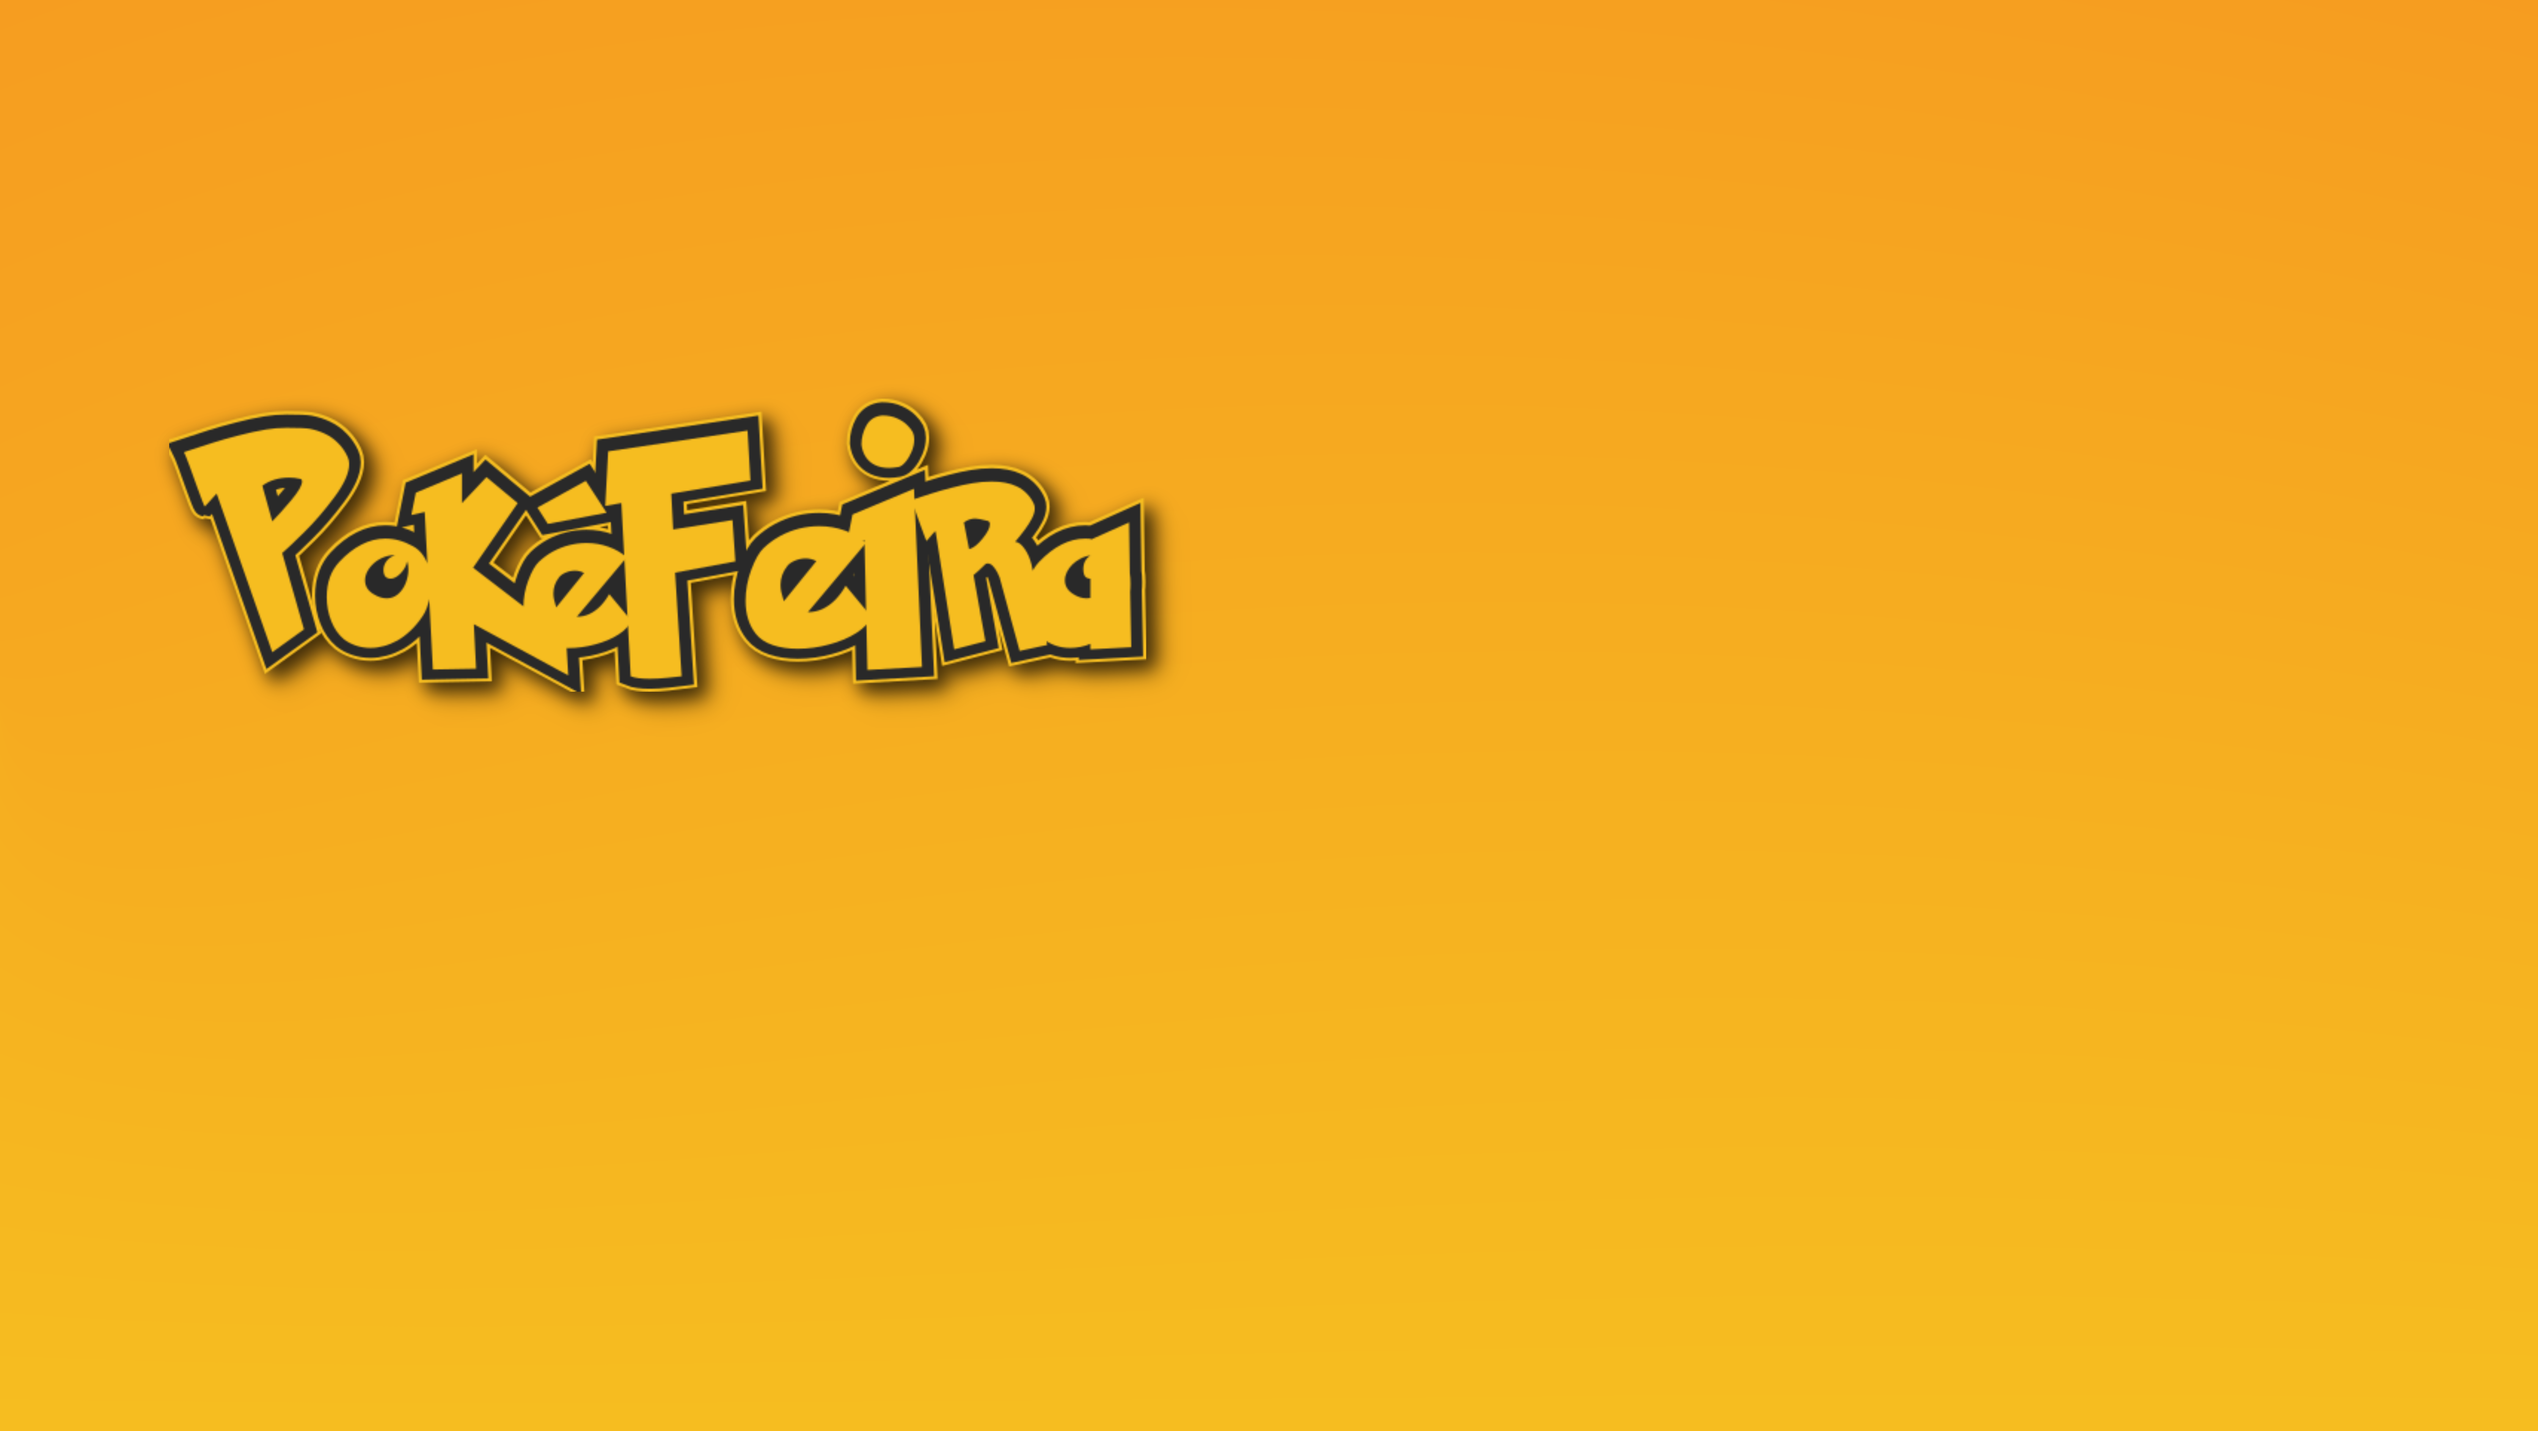
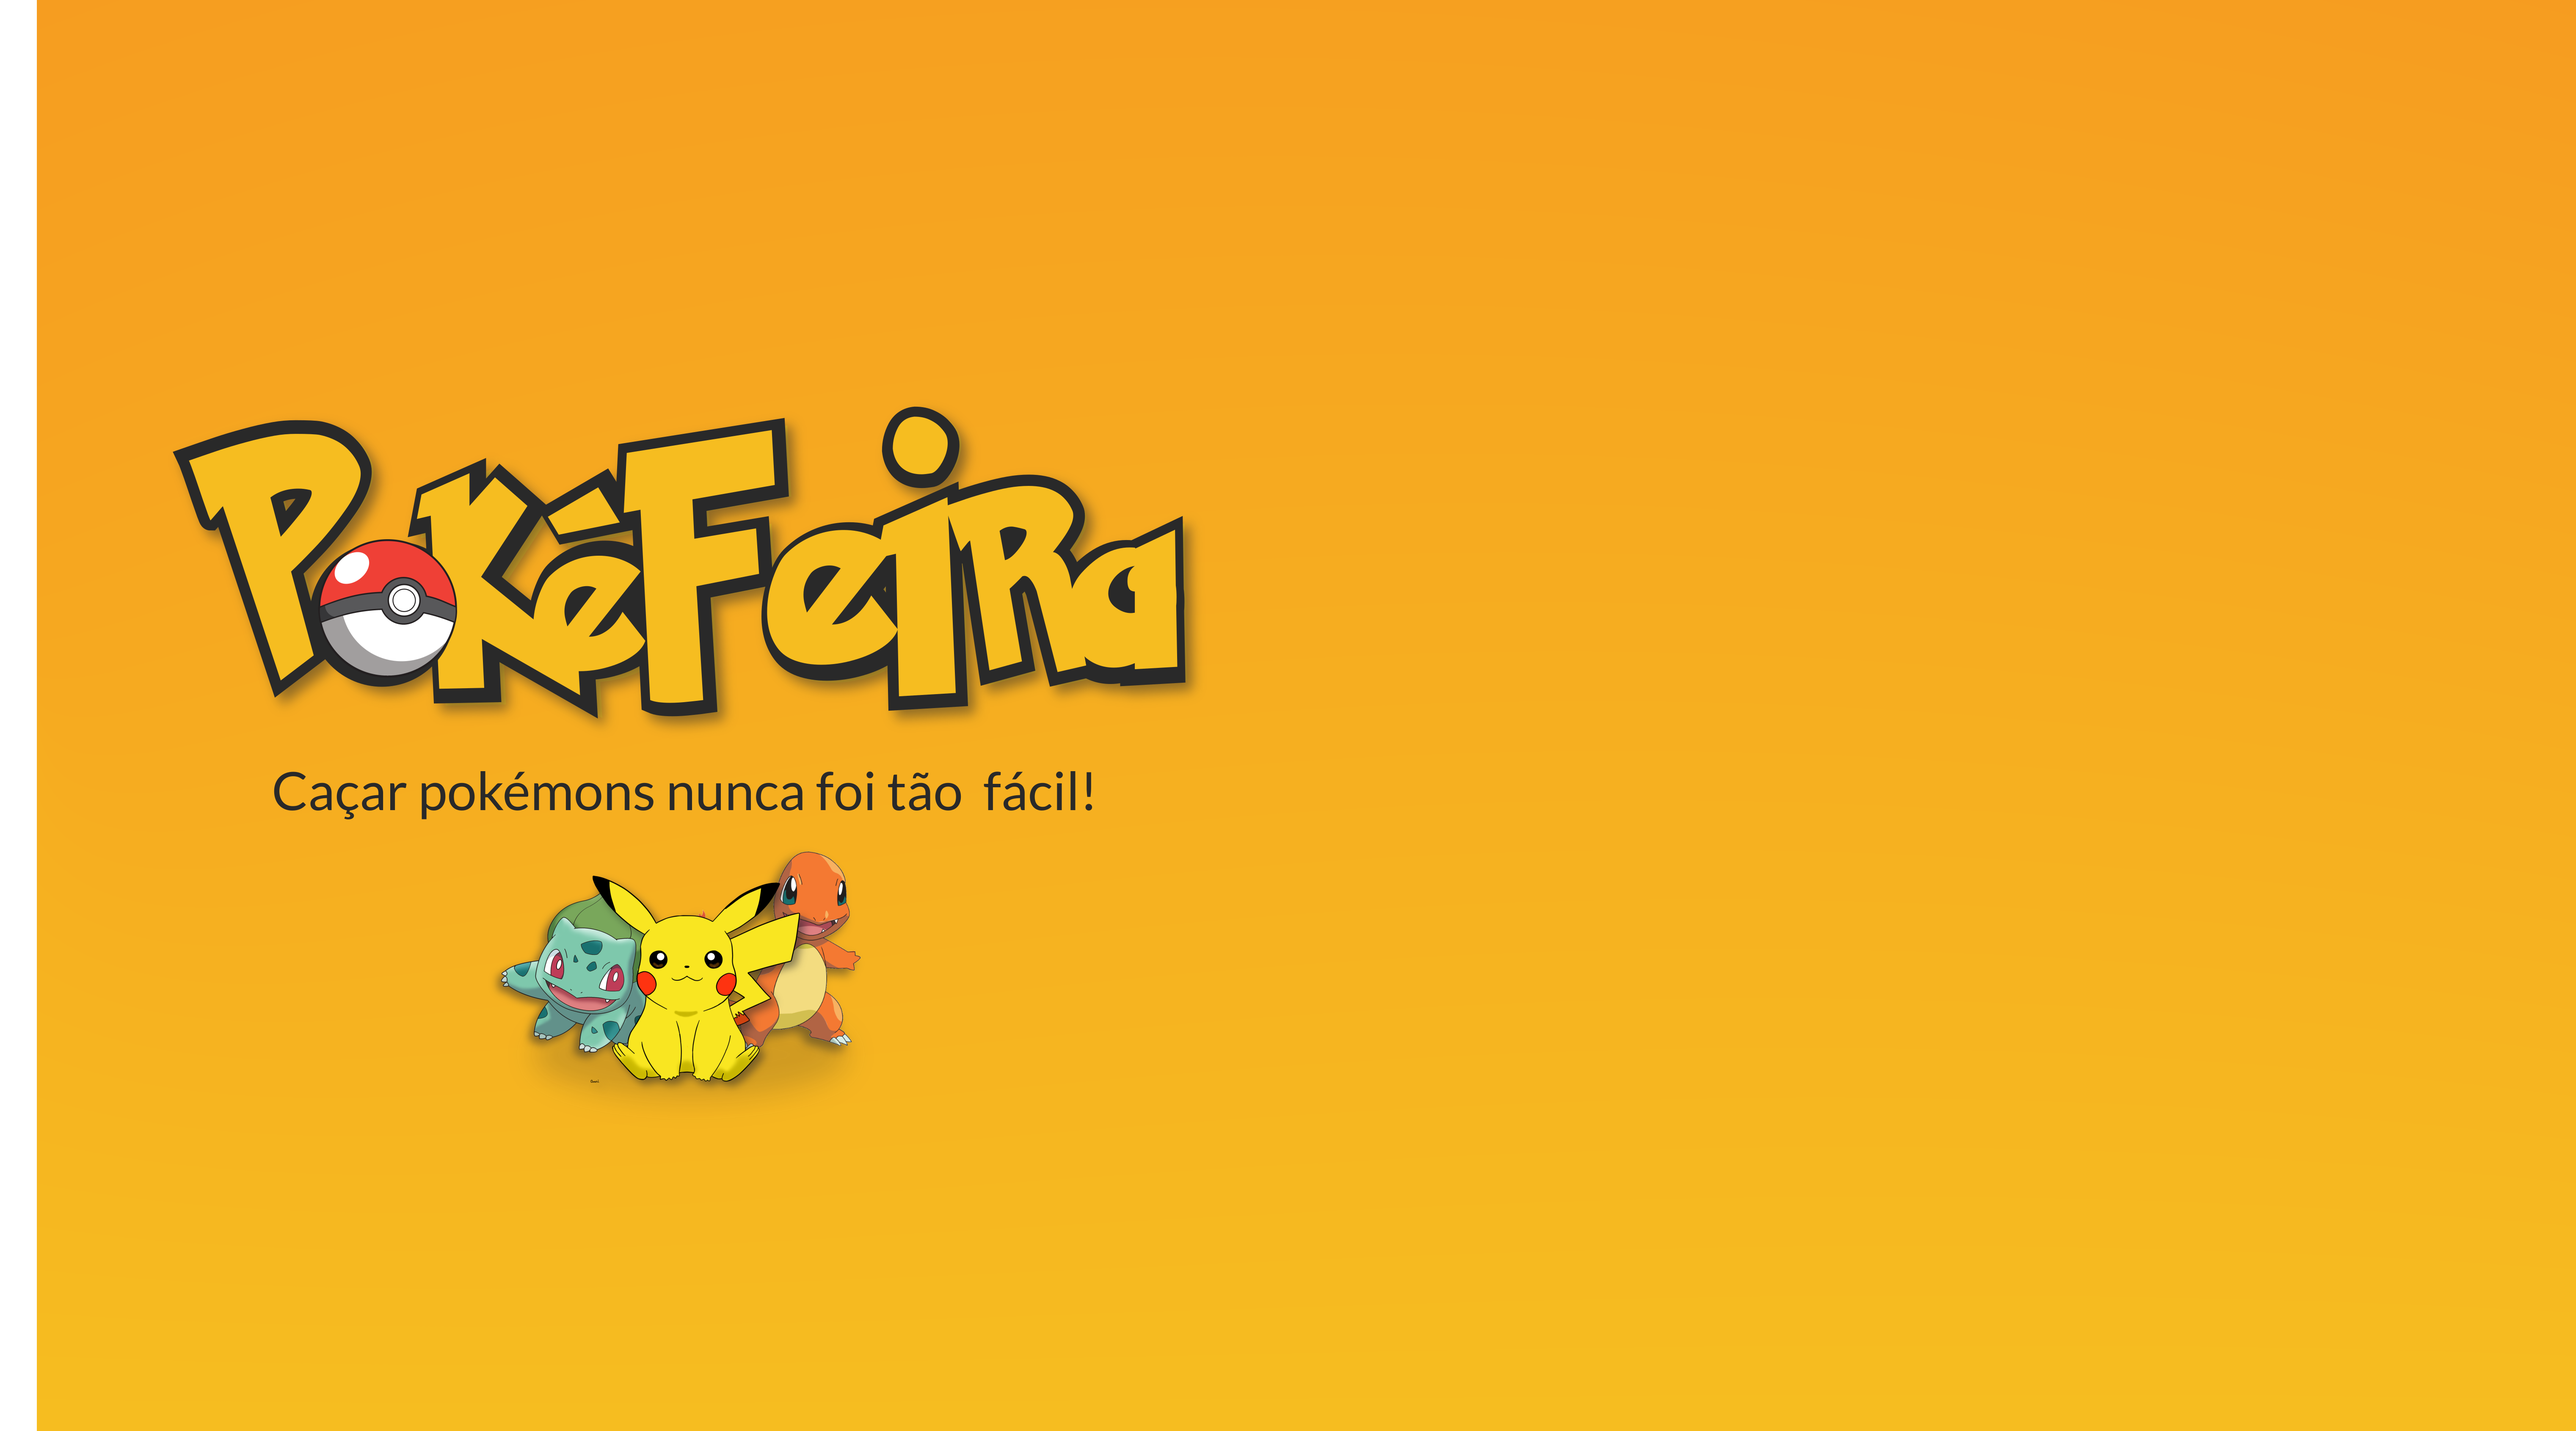
tela de login
tela de login 90%

Changed region(s): [[0.0624, 0.2795, 0.4677, 0.5901], [0.0, 0.0, 0.0312, 1.0], [0.1871, 0.5901, 0.3429, 0.7764]]

diff --git a/src/pages/Login/index.js b/src/pages/Login/index.js
@@ -4,7 +4,7 @@ import Container from '../../components/Container';
 import { useFormik } from 'formik';
 import { useAuth } from '../../hooks/context/AuthProvider';
 import { useHistory } from 'react-router-dom';
-import { Styled } from './styles';
+import { Styled, LoginButton} from './styles';
 import { validationSchema } from './validation';
 
 function Login() {
@@ -35,44 +35,42 @@ function Login() {
   );
 
   return (
-    <Container
-      title="Login"
-      size="sm"
-    >
-      <Form onSubmit={formik.handleSubmit}>
-        <Form.Group className="mb-5">
-          <Form.Label></Form.Label>
-          <Form.Control
-            id="login"
-            name="login"
-            placeholder="Digite seu e-mail"
-            onChange={formik.handleChange}
-            isValid={formik.touched.login && !formik.errors.login}
-            isInvalid={formik.errors.login}
-          />
-          {ValidationLoginError}
-        </Form.Group>
-        <Form.Group className="mb-5">
-          <Form.Label></Form.Label>
-          <Form.Control
-            id="password"
-            name="password"
-            type="password"
-            placeholder="Digite sua Senha"
-            onChange={formik.handleChange}
-            isValid={formik.touched.password && !formik.errors.password}
-            isInvalid={formik.errors.password}
-          />
-          {ValidationPasswordError}
-        </Form.Group>
-        {AppError}            
-         <ButtonGroup>
-           <Button variant="dark"  type="submit">Go!</Button>                                                            
-        </ButtonGroup>
-      
-        <Button variant="link">Quero ser um mestre pokémon</Button>
-      </Form> 
-    </Container>
+    <Styled.Container>
+      <Container
+        title="Login"
+        size="sm"
+      >
+        <Form onSubmit={formik.handleSubmit}>
+          <Form.Group>
+            <Form.Label></Form.Label>
+            <Form.Control
+              id="login"
+              name="login"
+              placeholder="Digite seu e-mail"
+              onChange={formik.handleChange}
+              isValid={formik.touched.login && !formik.errors.login}
+              isInvalid={formik.errors.login}
+            />
+            {ValidationLoginError}
+          </Form.Group>
+          <Form.Group>
+            <Form.Label></Form.Label>
+            <Form.Control
+              id="password"
+              name="password"
+              type="password"
+              placeholder="Digite sua Senha"
+              onChange={formik.handleChange}
+              isValid={formik.touched.password && !formik.errors.password}
+              isInvalid={formik.errors.password}
+            />
+            {ValidationPasswordError}
+          </Form.Group>
+          {AppError}
+          <LoginButton type="submit">Go!</LoginButton>
+        </Form>
+      </Container>
+    </Styled.Container>
   );
 }
 

diff --git a/src/pages/Login/styles.js b/src/pages/Login/styles.js
@@ -1,13 +1,39 @@
 import styled from "styled-components";
 import { mixins } from "../../styles/mixins";
+import bg from "../../assets/login-page.png"
+export const Styled = { 
 
-export const Styled = {
-    Error: styled.p`
+      Container: styled.div`
+      width: 110%;
+      height: 110%;      
+      background: url(${bg}) no-repeat;  
+      background-size: cover;      
+      display: flex;
+      align-self: center;      
+      justify-content: center;
+      flex-direction: column;
+
+`,
+
+  Error: styled.p`
         align-self: center;
         justify-self: center;
         color: ${mixins.colors.third};
         font-family: ${mixins.fonts.semi_bold};
         font-size: ${mixins.typograph.campoObrigatorio};
-    `,
+    `
+};
+export const LoginButton = styled.button`
   
-}
+          background-color:${mixins.colors.sixth};
+          text-align: center;
+          text-decoration:${mixins.colors.third};
+          font-size:18px;                    
+          width: 100%;
+          height: 35px;
+          border-radius:10px;  
+          border:none;
+          font-weight:900;
+
+`;
+

diff --git a/src/components/Container/styles.js b/src/components/Container/styles.js
@@ -1,16 +1,17 @@
 import styled from "styled-components";
 import { mixins } from "../../styles/mixins";
 
+
 const ContainerSM = styled.div`
-	margin:180px 0;
+	
     width:355px;
-    height: 479;
+    height: 479px;
+	position: absolute;
 	background-color: ${mixins.colors.secondary};
-    align-self: flex-end;
+    align-self: flex-end;	
     margin-right: 200px;
     padding: 50px;
-	//border-radius:25px;
-	padding: 50px;   
+	 	  
 `
 export const Styled = {
     ContainerSM,
@@ -29,6 +30,6 @@ export const Styled = {
 		flex-direction: row;
 		color: ${mixins.colors.third};
 		font-family: ${mixins.fonts.bold};
-		font-size: ${mixins.typograph.titleLogin};
-	`,
+		font-size: ${mixins.typograph.titleLogin};		
+	`
 };

diff --git a/src/styles/mixins.js b/src/styles/mixins.js
@@ -4,12 +4,13 @@
 export const mixins = {
 
     colors:{             
-        background:"#FFA500",
-        primary: "red",
+        background:"#E5E5E5",        
         secondary:"#F0242D",
         third:"#FFFFFF",    
         fifth:"#731F17",
-        sixth:"#F6BD20",      
+        sixth:"#F6BD20",
+            
+              
     },
     fonts:{
         bold: "Montserrat-Bold",
@@ -22,6 +23,7 @@ export const mixins = {
         subTitle: "16px",
         paragraph:"12px",
         campoObrigatorio:"14px",
+        EsqueceuSenha:"10px",
     },
     size:{
         lg:"240px",  //tamanho grande

diff --git a/src/routes/index.js b/src/routes/index.js
@@ -15,8 +15,7 @@ import { useAuth } from '../hooks/context/AuthProvider';
 function Routes() {
   const {auth} = useAuth()
   return (
-    <Styled.AppLayout>
-      <Styled.Logo imgUrl={process.env.PUBLIC_URL + '../assets.back.jpg'} ></Styled.Logo>
+    <Styled.AppLayout>      
       {auth && <NavBar />}
       <Styled.PageLayout>
         <Switch>

diff --git a/src/routes/styles.js b/src/routes/styles.js
@@ -1,5 +1,4 @@
 import styled from 'styled-components';
-
 export const Styled = {
   AppLayout: styled.div`
     display: flex;
@@ -12,10 +11,6 @@ export const Styled = {
     height: 100%;
     display: flex;
     flex-direction: column;
-  `,  
-      Logo:styled.img`
-      
-  `
-   
+  `,    
     
 }
